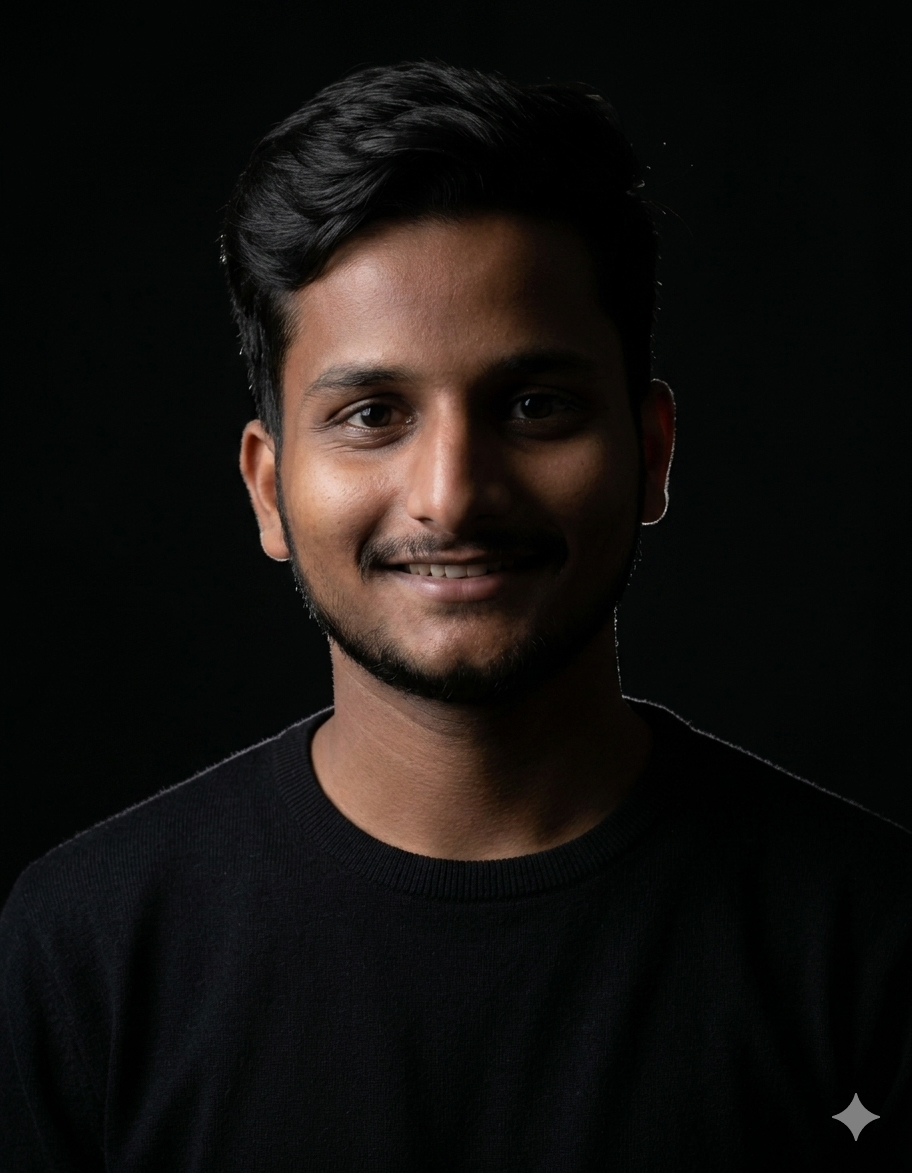
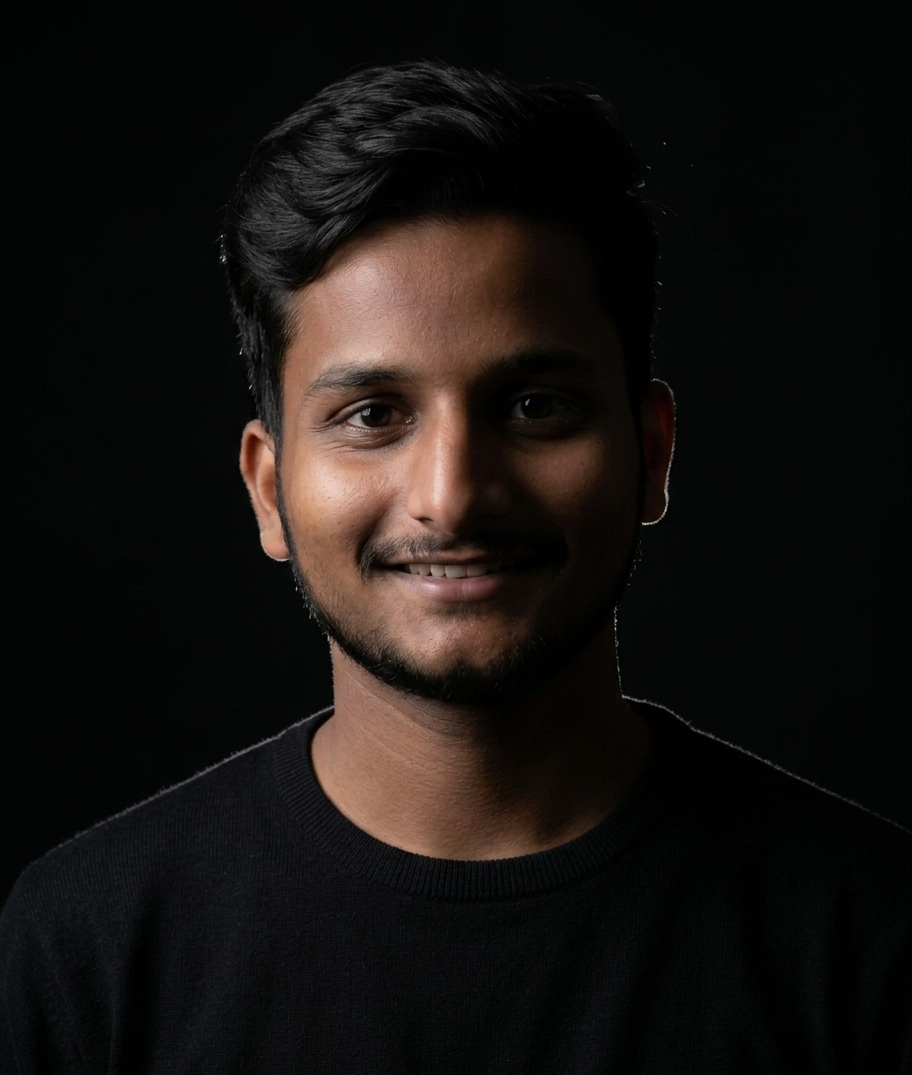
Updated Picture without rendering

diff --git a/src/AsciiAvatar.jsx b/src/AsciiAvatar.jsx
@@ -1,72 +1,9 @@
-import React, { useEffect, useRef } from 'react';
+import React from 'react';
 
-const AsciiAvatar = ({ imagePath = '/avatar.jpg' }) => {
-  const canvasRef = useRef(null);
-
-  useEffect(() => {
-    const canvas = canvasRef.current;
-    const ctx = canvas.getContext('2d');
-    const img = new Image();
-    img.src = imagePath;
-
-    img.onload = () => {
-      // 1. Set the resolution of the ASCII grid
-      // 100 columns is a good baseline. Higher = more detail but smaller text.
-      const cols = 100;
-      const aspect = img.height / img.width;
-      // Multiply by 0.5 to fix the stretching caused by font height vs width
-      const rows = Math.floor(cols * aspect * 0.5); 
-
-      // 2. Define character dimensions (Monospace is mandatory here)
-      const charWidth = 6;
-      const charHeight = 12;
-      canvas.width = cols * charWidth;
-      canvas.height = rows * charHeight;
-
-      // 3. Create an offscreen canvas to extract raw pixel data
-      const offCanvas = document.createElement('canvas');
-      const offCtx = offCanvas.getContext('2d');
-      offCanvas.width = cols;
-      offCanvas.height = rows;
-      offCtx.drawImage(img, 0, 0, cols, rows);
-      const imageData = offCtx.getImageData(0, 0, cols, rows).data;
-
-      // 4. Configure the terminal style
-      ctx.font = `${charHeight}px monospace`;
-      ctx.textBaseline = 'top';
-      // Classic terminal green against a dark background
-      ctx.fillStyle = '#00FF41'; 
-      ctx.clearRect(0, 0, canvas.width, canvas.height);
-
-      // 5. The Density String (Maps darkness to lightness)
-      // Space is the darkest, '@' is the lightest/densest
-      const density = ' _.,-=+:;cba!?0123456789$W#@Ñ';
-
-      // 6. Map pixels to characters and draw
-      for (let y = 0; y < rows; y++) {
-        for (let x = 0; x < cols; x++) {
-          const index = (y * cols + x) * 4;
-          const r = imageData[index];
-          const g = imageData[index + 1];
-          const b = imageData[index + 2];
-          
-          // Calculate average brightness
-          const brightness = (r + g + b) / 3;
-          
-          // Map brightness (0-255) to the density string index
-          const charIndex = Math.floor((brightness / 255) * (density.length - 1));
-          const char = density[charIndex];
-
-          ctx.fillText(char, x * charWidth, y * charHeight);
-        }
-      }
-    };
-  }, [imagePath]);
-
-  // Wrappers enforce center-alignment and responsive scaling
+const AsciiAvatar = ({ imagePath = '/avatar.png' }) => {
   return (
-    <div className="w-full flex justify-center overflow-hidden">
-      <canvas ref={canvasRef} className="bg-transparent block max-w-full h-auto object-contain"></canvas>
+    <div className="w-full h-full flex justify-center items-center overflow-hidden">
+      <img src={imagePath} alt="Avatar" className="w-full h-full object-cover grayscale hover:grayscale-0 transition-all duration-500" />
     </div>
   );
 };
